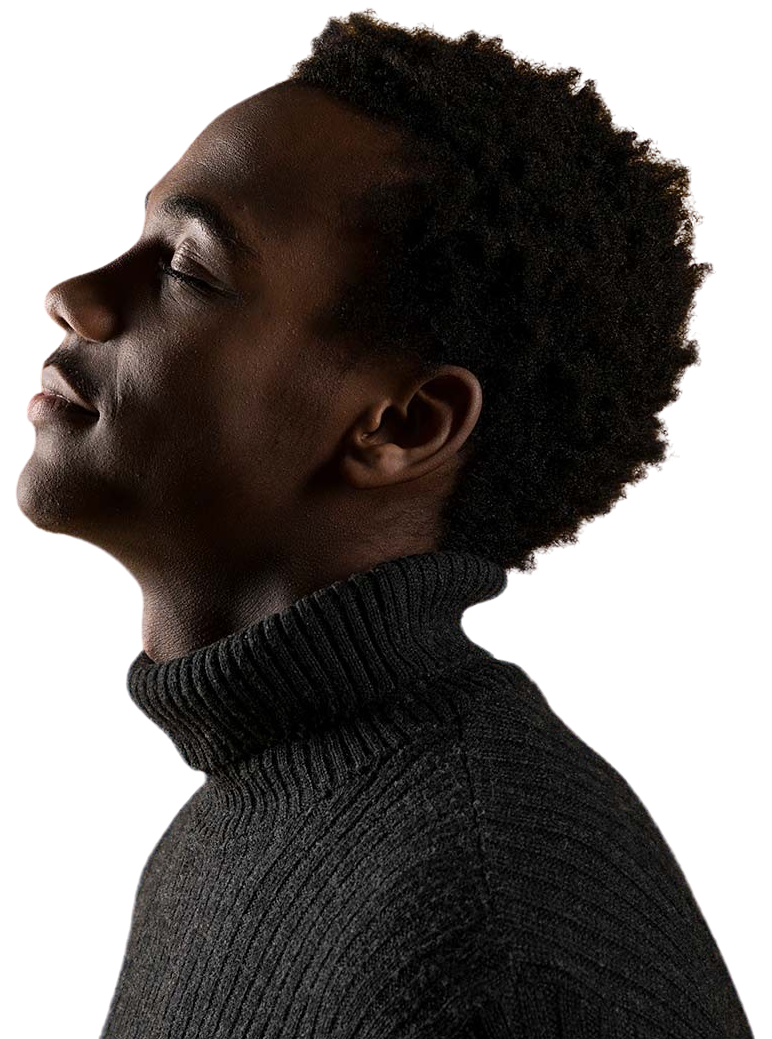
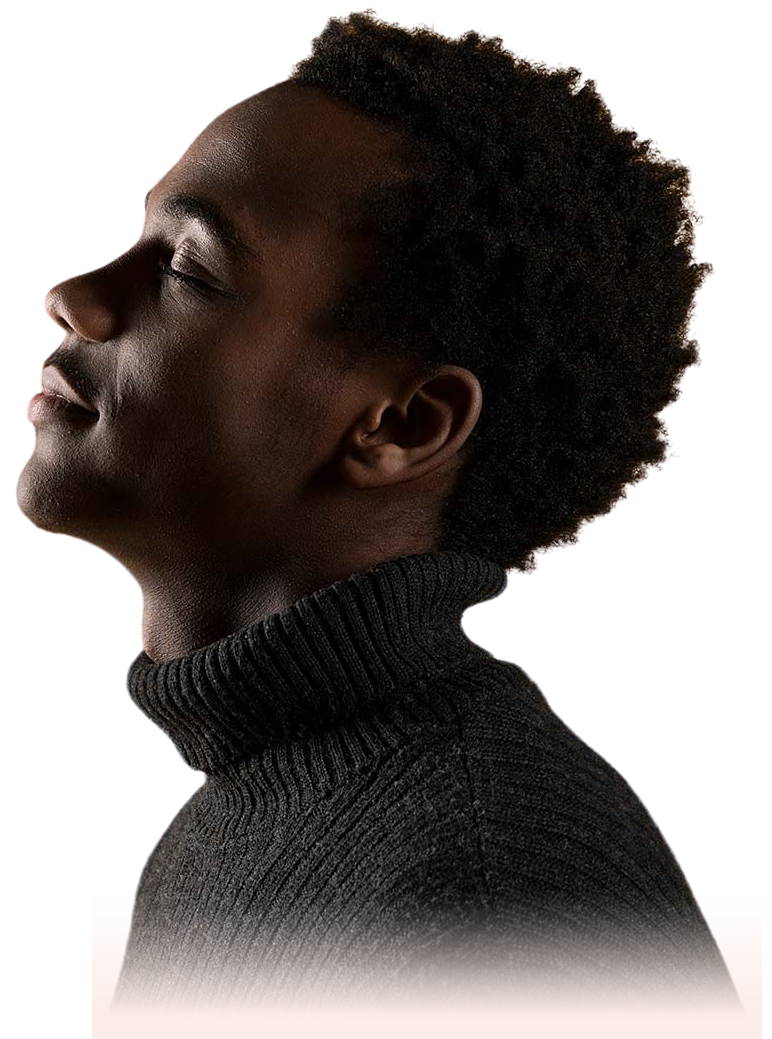
Documentation optimization

Changed region(s): [[0.1244, 0.8624, 0.9948, 1.0]]

diff --git a/index.html b/index.html
@@ -24,6 +24,8 @@
 
 <body>
 <div class="main">
+
+    <!-- Start of top navigation section   -->
     <header>
         <div class="navbar">
             <div class="logo">
@@ -67,6 +69,11 @@
             </label>
         </div>
     </header>
+ 
+    <!-- End of top navigation section   -->
+
+
+    <!-- Start of home section   -->
     <section class="hero">
          
                 <div class="hero__title">
@@ -92,7 +99,10 @@
                 </div>
           
     </section>
+   <!-- End of home section   -->
 
+
+   <!-- Start of about section   -->
     <section class="about" id="about">
         <div class="container">
             <div class="bg-coffee"></div>
@@ -115,7 +125,11 @@
            </div>
         </div>
     </section>
+   <!-- End  of about section   -->
 
+
+
+<!-- Start of services section   -->
 <section class="services" id="services">
         <div class="container">
            <div class="grid__row">
@@ -156,6 +170,9 @@
                </div>
         </div>
     </section>
+ <!-- End of services section   -->
+
+   <!-- Start of Skills section   -->
     <section class="skills">
         <div class="container">
             <div class="bg__sticky-note"></div>
@@ -210,7 +227,10 @@
            </div>
         </div>
     </section>
+   <!-- End of skills section   -->
 
+
+ <!-- End of skills section   -->
    <section class="experiences">
        
         <div class="container">
@@ -277,7 +297,10 @@
         </div>
         </div>
     </section>
+ <!-- End of skills  section   -->
 
+
+ <!-- Start ofportfolio section   -->
   <section class="portfolio" id="portfolio">
        
         <div class="container">
@@ -308,7 +331,11 @@
             </div>
         </div>
     </section>
+ <!-- End of portfolio section   -->
 
+
+
+ <!-- Start of testi;onials  section   -->
       <section class="testimonials">
         <div class="container">
             <div class="title">
@@ -319,10 +346,9 @@
                 <div class="testimonials__intro">
                     <h3> Some words <span class="title-primary">from my best</span> clients</h3>
                 </div>
-                <div class="testimonials__img">
-                    <img src="assets/img/testimonials.png" alt="" srcset="">
+                <div class="testimonials__img" style="background-image: url(assets/img/testimonials.png)">
                 </div>
-
+              
                 <div class="testimonial">
                     <p>We have experience in implementing projects for many large domestic and foreign corporations, enterprises in many elds such as nance, banking, F&B, education, communication.</p>
                     <h5> Hary Lay</h5>
@@ -331,6 +357,10 @@
             </div>
         </div>
     </section>
+     <!-- End of testi;onials  section   -->
+
+     
+ <!-- Start of  clients   -->
      <section class="clients">
         <div class="conainer">
             <div class="companies">
@@ -369,7 +399,11 @@
             </div>
         </div>
     </section>
+ <!-- End of clients section   -->
 
+
+
+ <!-- Start of footer  -->
  <footer>
         <div class="container">
             <div class="mail__box">
@@ -398,10 +432,13 @@
             </div>
         </div>
  </footer> 
+ <!-- End of footer  -->
     
 </div>
 </body>
 
+
+ <!-- Start of preloader sreen -->
 <div id="preloader">
     <div id="loader">
       <div class="preloader__text">
@@ -414,7 +451,10 @@
       </div>
     </div>
   </div>
+   <!-- End of preloader screen -->
 
+
+   <!-- Start of contact modal section   -->   
 <div id="contact-modal" class="contact__window">
     <div class="contact__content">
         <div class="contact__form">
@@ -443,4 +483,6 @@
         <a href="#" class="contact__close">&times;</a>
     </div>
 </div>
+
+   <!--End of contact modal section  -->
 </html>

diff --git a/assets/css/main.css b/assets/css/main.css
@@ -483,6 +483,7 @@ display: block;
   cursor: url("../img/portfolio-1.jpeg");
 
 }
+
 .hero__title--name{
   font-weight: 900;
   color: transparent;
@@ -968,6 +969,26 @@ height: auto;
   display: flex;
 }
 
+.testimonials__img {
+  background-size: 25vw;
+  background-position: center;
+  background-repeat: no-repeat;
+  width: 100%;
+  z-index: 2;
+  height: 28vw;
+  position: relative;
+}
+ .testimonials__img::before {
+    position: absolute;
+    content: '';
+    width: 100%;
+    height: 100%;
+    background: rgb(234,234,235);
+    background: linear-gradient(0deg, rgba(255,255,255,1) 0%, rgba(255,255,255,1) 8%, rgba(0,212,255,0) 30%);
+    z-index: 3;
+    top: 0;
+    bottom: 0;
+}
 .testimonials__intro, .testimonials__img, .testimonial{
   flex: 0 1 33.333%;
 }
@@ -996,25 +1017,7 @@ height: auto;
   font-weight: 600;
   color: var(--dark);
 }
-.testimonials__img img{
-max-height: 500px;
-width: auto;
-z-index: 2;
-display: inline-block;
-}
-.testimonials__img{
-  position: relative;
-}
-.testimonials__img img::before{
-  position: absolute;
-  content: '';
-  width: 100%;
-  height: 100%;
-  background-image:linear-gradient(to top, rgba(197, 60, 60, 0.815), rgba(255, 255, 255, 0));
-  z-index: 3;
-  top: 0;
-  bottom: 0;
-}
+
 
 .testimonial .company__name{
   font-weight: 600;
@@ -2012,11 +2015,6 @@ margin-bottom: 3.2rem;
   text-align: center;
 }
 
-
-.testimonials__img img {
-  max-height: 500px;
-  width: 100%;
-}
 
 .companies__box .company {
   padding: 2rem;
